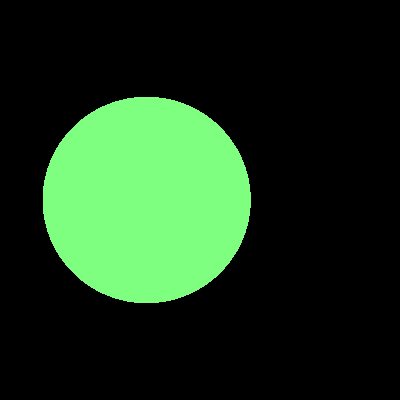
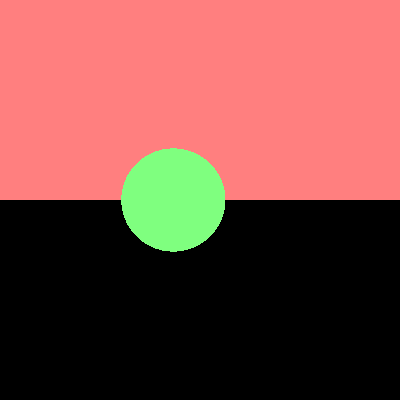
Why are my planes backwards?

diff --git a/src/scene/primitives/Plane.cs b/src/scene/primitives/Plane.cs
@@ -31,12 +31,14 @@ namespace RayTracer
         /// <returns>Hit data (or null if no intersection)</returns>
         public RayHit Intersect(Ray ray)
         {
-            double denom = ray.Origin.Dot(this.normal);
-            if (denom > 1e-6)
+            // Normalise vectors
+            Vector3 rd = ray.Direction, ro = ray.Origin, norm = this.normal, cent = this.center;
+
+            double denom = norm.Dot(rd);
+            if (denom > 0.00001f)
             {
-                Vector3 pointAndOrigin = ray.Origin;
-                double t = pointAndOrigin.Dot(this.normal) / denom;
-                return new RayHit(new Vector3(0.0f, 0.0f, 0.0f), new Vector3(0.0f, 0.0f, 0.0f), new Vector3(0.0f, 0.0f, 0.0f),this.material);
+                double t = (cent - ro).Dot(norm) / denom;
+                if (t <= 0.0f) return new RayHit(new Vector3(0.0f, 0.0f, 0.0f), new Vector3(0.0f, 0.0f, 0.0f), new Vector3(0.0f, 0.0f, 0.0f), this.material);
             }
             return null;
         }

diff --git a/src/scene/Scene.cs b/src/scene/Scene.cs
@@ -56,7 +56,7 @@ namespace RayTracer
                 {
                     double x = (double)(j + 0.5f) / outputImage.Width;
                     double y = (double)(i + 0.5f) / outputImage.Height;
-                    double z = 2.0f; // TODO: Fix weird distance.
+                    double z = 1.0f; // TODO: Fix weird distance.
 
                     double x_adj = (x * 2.0f) - 1.0f;
                     double y_adj = 1.0f - (y * 2.0f);

diff --git a/src/math/Vector3.cs b/src/math/Vector3.cs
@@ -100,7 +100,7 @@ namespace RayTracer
         /// <returns>Negated vector</returns>
         public static Vector3 operator -(Vector3 a)
         {
-            return new Vector3(a.x * -1, a.y * -1, a.z * -1);
+            return new Vector3(a.x * -1.0f, a.y * -1.0f, a.z * -1.0f);
         }
 
         /// <summary>
